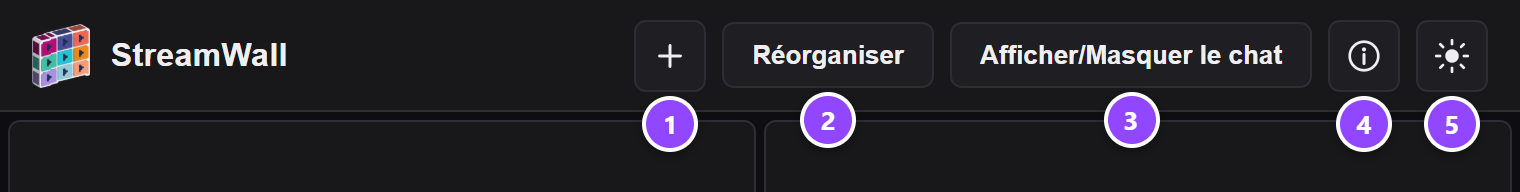
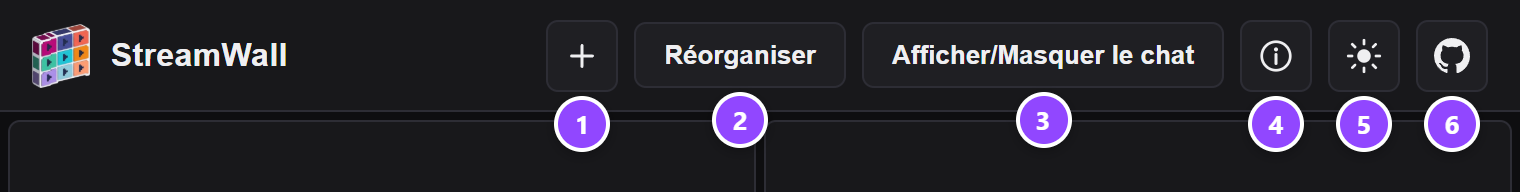
add github link

diff --git a/index.html b/index.html
@@ -104,8 +104,8 @@
       #btn-empty-add) quand aucun stream n'est configuré. Il n'y a plus de
       tuile "+" dans la zone des lecteurs, ni de bouton "Changer les streams"
       dédié. Le menu contient donc, dans l'ordre : "+", "Réorganiser" (et, dans
-      ce mode, "Réinitialiser la vue"), le chat, le bouton d'aide « i » et la
-      bascule thème sombre/clair tout à droite.
+      ce mode, "Réinitialiser la vue"), le chat, le bouton d'aide « i », la
+      bascule thème sombre/clair et, tout à droite, le lien GitHub.
       Pas de bouton "Connexion Twitch" ici : un flux OAuth avait été
       tenté (identité affichée dans le menu de StreamWall), mais retiré
       car il ne connecte de toute façon PAS le panneau de chat/vidéo
@@ -215,6 +215,34 @@
           />
         </svg>
       </button>
+      <!--
+        Lien vers le dépôt GitHub du projet (code source), tout à droite de la
+        barre. C'est un vrai LIEN (<a>) et non un bouton : il navigue, sans
+        aucun JavaScript. Habillé comme les autres boutons d'icône du menu
+        (classes menu-btn menu-btn--icon, voir style.css).
+        - `target="_blank"` l'ouvre dans un nouvel onglet, pour ne pas quitter
+          le mur de streams (les lecteurs seraient rechargés au retour) ;
+          `rel="noopener noreferrer"` empêche la page ouverte d'accéder à
+          celle-ci (`window.opener`) et de recevoir son adresse : c'est le
+          réflexe pour tout lien sortant en `_blank`.
+        - `aria-label` donne son nom au lien (l'icône est décorative) et
+          prévient qu'il s'ouvre dans un nouvel onglet ; `title` est
+          l'infobulle à la souris.
+        - L'icône est la "mark" GitHub (Octicons, licence MIT), en
+          `currentColor` : elle suit la couleur du thème sombre/clair.
+        Pour pointer vers un autre dépôt (un fork, par exemple), changer ce
+        `href` — ou supprimer tout le lien : voir documentation.md.
+      -->
+      <a id="github-link" class="menu-btn menu-btn--icon"
+        href="https://github.com/Kur0n33k0/kur0n33k0.github.io"
+        target="_blank" rel="noopener noreferrer"
+        aria-label="Code source de StreamWall sur GitHub (s'ouvre dans un nouvel onglet)"
+        title="Code source sur GitHub">
+        <svg class="github-icon" viewBox="0 0 16 16" aria-hidden="true">
+          <path fill="currentColor"
+            d="M8 0C3.58 0 0 3.58 0 8c0 3.54 2.29 6.53 5.47 7.59.4.07.55-.17.55-.38 0-.19-.01-.82-.01-1.49-2.01.37-2.53-.49-2.69-.94-.09-.23-.48-.94-.82-1.13-.28-.15-.68-.52-.01-.53.63-.01 1.08.58 1.23.82.72 1.21 1.87.87 2.33.66.07-.52.28-.87.51-1.07-1.78-.2-3.64-.89-3.64-3.95 0-.87.31-1.59.82-2.15-.08-.2-.36-1.02.08-2.12 0 0 .67-.21 2.2.82.64-.18 1.32-.27 2-.27.68 0 1.36.09 2 .27 1.53-1.04 2.2-.82 2.2-.82.44 1.1.16 1.92.08 2.12.51.56.82 1.27.82 2.15 0 3.07-1.87 3.75-3.65 3.95.29.25.54.73.54 1.48 0 1.07-.01 1.93-.01 2.2 0 .21.15.46.55.38A8.013 8.013 0 0016 8c0-4.42-3.58-8-8-8z" />
+        </svg>
+      </a>
     </nav>
   </header>
 
@@ -388,8 +416,9 @@
   <!-- ======================= FENÊTRE D'AIDE ======================= -->
   <!--
     Fenêtre d'aide ouverte par le bouton #btn-help de l'en-tête : elle décrit
-    chaque option du site, avec des captures d'écran (dossier assets/help/,
-    régénérables avec tools/generate-help-screenshots.js, voir documentation.md).
+    chaque option du site, avec des captures d'écran (images fixes du dossier
+    assets/help/ ; voir documentation.md, section 16, pour la façon dont elles
+    ont été réalisées et les refaire).
     Le contenu est ENTIÈREMENT statique (du HTML écrit ici) : aucune donnée
     n'est chargée ni calculée à l'ouverture. Elle réutilise l'habillage de la
     modale "Changer les streams" (.modal-overlay / .modal), en plus large :
@@ -472,7 +501,7 @@
             <h3 id="help-menu-title">Le menu du haut</h3>
             <figure class="help-figure">
               <img src="assets/help/help-header.png" width="1520" height="192" loading="lazy" decoding="async"
-                alt="Capture de l'en-tête : le logo StreamWall à gauche, puis les boutons Plus, Réorganiser, Afficher/Masquer le chat, Aide et la bascule de thème, numérotés de 1 à 5." />
+                alt="Capture de l'en-tête : le logo StreamWall à gauche, puis les boutons Plus, Réorganiser, Afficher/Masquer le chat, Aide, la bascule de thème et le logo GitHub, numérotés de 1 à 6." />
             </figure>
             <ol class="help-legend">
               <li><strong>Ajouter (+)</strong> : ouvre la fenêtre « Changer les streams » pour ajouter un stream ou
@@ -487,6 +516,8 @@
               <li><strong>Aide</strong> (le bouton « i ») : ouvre cette fenêtre.</li>
               <li><strong>Soleil / lune</strong> : passe du thème sombre au thème clair, et inversement
                 (voir <button type="button" class="help-link" data-help-target="help-theme">Thème clair / sombre</button>).</li>
+              <li><strong>Logo GitHub</strong> (tout à droite) : ouvre le code source du projet sur GitHub, dans un nouvel
+                onglet — votre mur de streams n'est pas quitté.</li>
             </ol>
             <p class="help-note">
               Sur un petit écran, le menu défile horizontalement si tous les boutons ne tiennent pas.

diff --git a/style.css b/style.css
@@ -199,8 +199,8 @@ html[data-theme="light"] .brand-logo--light {
   border-color: var(--twitch-purple);
 }
 
-/* Bouton icône seule (ajout « + », bascule de thème, aide) : carré, icône
-   centrée */
+/* Bouton icône seule (ajout « + », bascule de thème, aide, lien GitHub) :
+   carré, icône centrée */
 .menu-btn--icon {
   padding: 8px;
   width: 36px;
@@ -219,6 +219,21 @@ html[data-theme="light"] .brand-logo--light {
 /* Icône « + » du bouton d'ajout de stream (#btn-add) : même taille et même
    couleur que celles de la bascule de thème et du bouton d'aide. */
 .add-icon {
+  width: 18px;
+  height: 18px;
+  color: var(--text-primary);
+}
+
+/* Lien GitHub (#github-link, tout à droite du menu) : c'est un <a> habillé
+   comme les boutons du menu (.menu-btn). Un lien est souligné par défaut et
+   prend la couleur des liens : on retire le soulignement (le texte est absent
+   de toute façon, seule l'icône est affichée) ; la couleur, elle, vient déjà
+   de .menu-btn. Son icône suit la couleur du thème comme les autres. */
+a.menu-btn {
+  text-decoration: none;
+}
+
+.github-icon {
   width: 18px;
   height: 18px;
   color: var(--text-primary);
@@ -1171,8 +1186,8 @@ html[data-theme="light"] .help-link {
 
 /*
  * Légende numérotée d'une capture : le numéro de chaque ligne est une pastille
- * violette, IDENTIQUE à celles dessinées sur l'image (tools/generate-help-
- * screenshots.js), pour qu'on associe d'un coup d'œil « 3 » sur la capture à
+ * violette, IDENTIQUE à celles dessinées sur l'image (voir documentation.md,
+ * section 16), pour qu'on associe d'un coup d'œil « 3 » sur la capture à
  * « 3 » dans la liste. Les numéros viennent d'un compteur CSS : pas de nombre à
  * saisir à la main dans le HTML, l'ordre des <li> fait foi.
  */
@@ -1352,8 +1367,9 @@ html[data-theme="light"] .help-link {
   }
 
   /*
-   * En-tête sur petit écran : le menu (jusqu'à 4 boutons en mode
-   * Réorganiser) plus le logo ne tiennent pas toujours sur une ligne. Plutôt
+   * En-tête sur petit écran : le menu (jusqu'à 7 éléments en mode
+   * Réorganiser : +, Réorganiser, Réinitialiser la vue, chat, aide, thème et
+   * lien GitHub) plus le logo ne tiennent pas toujours sur une ligne. Plutôt
    * que de faire déborder la page, le logo garde sa taille (`flex-shrink:
    * 0`) et c'est le MENU qui rétrécit et défile horizontalement au doigt
    * (`min-width: 0` l'autorise à devenir plus étroit que son contenu ;
@@ -1407,11 +1423,11 @@ html[data-theme="light"] .help-link {
  * Très petit écran (téléphone en portrait) : le nom "StreamWall" est masqué
  * (il ne reste que l'icône du logo, comme avant l'ajout du logo, où le nom
  * était déjà masqué ici pour gagner de la place), et l'en-tête et les
- * boutons sont un peu plus compacts, pour que l'icône et les quatre boutons
- * du menu (Réorganiser, chat, aide, thème) tiennent tous sans avoir à faire
- * défiler le menu — à partir de 360px de large, la largeur de téléphone la
- * plus courante. En dessous de 520px, le nom et le menu ne tiendraient de
- * toute façon pas ensemble.
+ * boutons sont un peu plus compacts, pour que l'icône et les six éléments
+ * du menu (+, Réorganiser, chat, aide, thème et lien GitHub) tiennent tous
+ * sans avoir à faire défiler le menu — à partir de 360px de large, la largeur
+ * de téléphone la plus courante. En dessous de 520px, le nom et le menu ne
+ * tiendraient de toute façon pas ensemble.
  */
 @media (max-width: 520px) {
   .brand-name {
@@ -1422,8 +1438,11 @@ html[data-theme="light"] .help-link {
     padding: 0 8px;
   }
 
+  /* 4px entre deux éléments du menu (8px sur grand écran) : c'est ce qui
+     permet à l'ajout du lien GitHub (36px) de tenir dans les 360px d'un
+     téléphone sans faire défiler le menu. */
   .app-menu {
-    gap: 6px;
+    gap: 4px;
   }
 
   .menu-btn:not(.menu-btn--icon) {

diff --git a/documentation.md b/documentation.md
@@ -136,11 +136,12 @@ données ni processus serveur.
   chaînes à elle, indépendamment de ce qui est affiché à l'instant t —
   pas de bouton "Copier le lien" global dans le menu.
 - Menu **« + » / "Réorganiser" / "Afficher-Masquer le chat" / aide « i » /
-  thème**, positionné en haut à droite de la page (pas de bouton "Changer
-  les streams" séparé dans le menu : voir le point sur le bouton « + »
-  ci-dessus ;
-  pas de bouton "Copier le lien" non plus : voir le point sur les
-  dispositions favorites). Sur téléphone, « Afficher/Masquer le chat » se
+  thème / logo GitHub**, positionné en haut à droite de la page (pas de
+  bouton "Changer les streams" séparé dans le menu : voir le point sur le
+  bouton « + » ci-dessus ; pas de bouton "Copier le lien" non plus : voir le
+  point sur les dispositions favorites). Le **logo GitHub**, tout à droite,
+  ouvre le dépôt du projet dans un nouvel onglet (voir "Lien GitHub du menu"
+  dans la Personnalisation). Sur téléphone, « Afficher/Masquer le chat » se
   réduit à « Chat » pour que tout tienne.
 - **Fenêtre d'aide** (bouton **« i »** du menu) : elle explique **toutes les
   options du site, avec des captures d'écran** numérotées et un sommaire
@@ -170,16 +171,14 @@ streamwall/
 │   ├── logo_mode_clair0.png   Icône du logo pour le thème clair (contour foncé)
 │   ├── favicon.ico            Favicon (fichier ICO : 16, 32 et 48 px)
 │   └── help/                  Captures d'écran de la fenêtre d'aide (9 PNG, voir section 16)
-├── tools/
-│   └── generate-help-screenshots.js   Outil de développement FACULTATIF : régénère assets/help/
 ├── documentation.md    Cette documentation technique (fonctionnement, déploiement, personnalisation)
 └── README.md           Présentation du projet (page d'accueil GitHub)
 ```
 
 Il n'y a **aucune étape de build** (pas de Webpack/Vite/npm install) : les
 fichiers sont servis tels quels par n'importe quel serveur HTTP statique.
-Le dossier `tools/` n'est pas servi au visiteur et n'est jamais chargé par
-la page : il ne sert qu'à régénérer les captures de l'aide (section 16).
+Le dépôt ne contient aucun outil de développement : rien à installer, ni pour servir
+le site ni pour le modifier.
 
 ## Fonctionnement technique
 
@@ -1351,7 +1350,7 @@ arrive, et pour que les sauts du sommaire tombent au bon endroit.
 
 | Fichier | Ce qu'il montre | Pastilles |
 | --- | --- | --- |
-| `help-header.png` | le menu du haut : « + », Réorganiser, chat, aide, thème (2× pour rester net) | 5 |
+| `help-header.png` | le menu du haut : « + », Réorganiser, chat, aide, thème, logo GitHub (2× pour rester net) | 6 |
 | `help-add-streams.png` | le haut de la fenêtre "Changer les streams" : saisie, liste (2×) | 3 |
 | `help-wall.png` | le mur de streams, sans rien d'autre | — |
 | `help-reorder.png` | le mode Réorganiser : barre d'outils et poignées des tuiles | 4 |
@@ -1368,41 +1367,36 @@ compteur CSS (l'ordre des `<li>` fait foi, aucun numéro n'est écrit à la main
 Si vous ajoutez ou retirez une pastille sur une capture, la légende doit
 suivre.
 
-**Les captures sont générées, pas dessinées à la main** :
-`tools/generate-help-screenshots.js` (un outil de développement,
-**facultatif** — le site reste 100 % statique, sans étape de build)
-ouvre le VRAI site dans un Chrome sans fenêtre, le met dans chaque état à
-illustrer en remplissant le `localStorage` (mêmes clés que l'application :
-chaînes, favoris, mode Réorganiser, tailles ajustées, thème, chat,
-dispositions), puis prend la capture. Deux choses sont simulées, faute de
+**Comment les captures ont été réalisées.** Ce sont des images FIXES : elles
+ne se mettent pas à jour toutes seules. Chacune a été prise sur le VRAI site,
+ouvert dans un Chrome sans fenêtre et mis dans l'état à illustrer en
+remplissant le `localStorage` (mêmes clés que l'application : chaînes,
+favoris, mode Réorganiser, tailles ajustées, thème, chat, dispositions), puis
+annotée de ses pastilles numérotées. Deux choses sont simulées, faute de
 pouvoir (ni vouloir) charger Twitch : les **lecteurs vidéo** sont remplacés par
 des images factices (dégradé, "EN DIRECT", nom de chaîne fictif :
 `exemple_un`, `exemple_deux`…) — on ne montre donc aucun vrai streamer — et le
-**chat** par quelques messages fictifs. Tout le réseau externe est bloqué
-pendant la prise de vue : les captures ne dépendent pas d'Internet et sont
-identiques d'une exécution à l'autre.
+**chat** par quelques messages fictifs. Le réseau externe était bloqué pendant
+la prise de vue.
 
-Pour les régénérer (après un changement d'interface) :
+Le script qui automatisait tout cela (`tools/generate-help-screenshots.js`,
+fondé sur `puppeteer-core`) **n'est plus dans le dépôt** : le site est resté
+sans aucun outil de développement. Il reste récupérable dans l'historique git
+(`git show 4350241^:tools/generate-help-screenshots.js`) pour refaire les
+captures après un changement d'interface — à adapter, il ne connaît pas
+forcément les derniers éléments de l'interface ; sinon, on les prend à la main,
+dans les mêmes états et avec les mêmes noms de chaînes fictifs. Dans les deux
+cas, si la taille d'une capture change, mettez à jour les attributs
+`width`/`height` de son `<img>` dans `index.html`.
 
-```bash
-python3 -m http.server 8080                     # 1. servir le site
-npm install puppeteer-core                      # 2. dans un dossier TEMPORAIRE (pas dans le projet)
-NODE_PATH=/chemin/vers/node_modules \
-  node tools/generate-help-screenshots.js       # 3. régénérer assets/help/*.png
-```
-
-`CHROME_PATH` désigne un Chrome/Edge précis (sinon les emplacements usuels sont
-essayés) et `STREAMWALL_URL` une autre adresse que
-`http://localhost:8080/index.html`. Si la taille d'une capture change, mettez à
-jour les attributs `width`/`height` de son `<img>` dans `index.html`.
-
-**Le menu sur téléphone.** Avec le bouton « + » et le bouton « i », le menu
-compte cinq boutons (+, Réorganiser, chat, aide, thème) ; pour qu'ils tiennent
-tous sur un écran de
-360 px sans faire défiler le menu, le libellé « Afficher/Masquer le chat » se
-réduit à **« Chat »** jusqu'à 600 px de large (`.menu-btn-extra`, une partie du
-libellé masquée en CSS ; `aria-label` garde le nom complet pour les lecteurs
-d'écran). Au-delà de 600 px, rien ne change.
+**Le menu sur téléphone.** Avec le bouton « + », le bouton « i » et le lien
+GitHub, le menu compte six éléments (cinq boutons — +, Réorganiser, chat, aide,
+thème — et le lien) ; pour qu'ils tiennent tous sur un écran de 360 px sans
+faire défiler le menu, deux choses changent : le libellé « Afficher/Masquer le
+chat » se réduit à **« Chat »** jusqu'à 600 px de large (`.menu-btn-extra`, une
+partie du libellé masquée en CSS ; `aria-label` garde le nom complet pour les
+lecteurs d'écran), et l'écart entre deux éléments passe de 8 à 4 px sous
+520 px. Au-delà de 600 px, rien ne change.
 
 ## Lancer le projet en local
 
@@ -1634,8 +1628,8 @@ ensemble.
 
 **Le menu de l'en-tête sur téléphone.** Pour que le logo ne fasse jamais
 déborder la page, l'en-tête et les boutons sont un peu plus compacts sous
-520 px (à partir de 360 px de large, l'icône et les cinq boutons
-+ / Réorganiser / chat / aide / thème tiennent sans défiler, le libellé du bouton
+520 px (à partir de 360 px de large, l'icône et les six éléments du menu
++ / Réorganiser / chat / aide / thème / GitHub tiennent sans défiler, le libellé du bouton
 de chat étant alors réduit à « Chat » : voir section 16) ; et quand le menu a
 plus de boutons que la largeur ne le permet — typiquement le mode
 Réorganiser, qui ajoute "Réinitialiser la vue" — c'est le menu qui **défile
@@ -1666,6 +1660,37 @@ Si votre nouveau logo contient déjà le nom "StreamWall" dans l'image,
 supprimez le `<span class="brand-name">` pour ne pas l'écrire deux fois (et
 donnez alors un `alt="StreamWall"` aux images).
 
+### Lien GitHub du menu
+
+Tout à droite du menu, le **logo GitHub** (`#github-link`, dans `index.html`)
+ouvre le dépôt du projet, `https://github.com/Kur0n33k0/kur0n33k0.github.io`,
+dans un nouvel onglet. C'est un simple lien HTML (`<a>`), sans aucun
+JavaScript :
+
+- `target="_blank"` l'ouvre dans un **nouvel onglet**, pour ne pas quitter le
+  mur de streams (les lecteurs seraient rechargés au retour) ;
+  `rel="noopener noreferrer"` empêche la page ouverte d'accéder à celle-ci
+  (`window.opener`) et de recevoir son adresse : le réflexe pour tout lien
+  sortant en `_blank`.
+- Il est habillé comme les autres boutons d'icône du menu
+  (`.menu-btn .menu-btn--icon`). L'icône est la "mark" GitHub des Octicons
+  (licence MIT), en SVG inline dessiné en `currentColor` : elle suit la couleur
+  du thème sombre/clair, sans image ni requête de plus. `a.menu-btn` retire le
+  soulignement que les liens ont par défaut.
+- Accessibilité : l'icône est décorative (`aria-hidden`), c'est `aria-label`
+  (« Code source de StreamWall sur GitHub (s'ouvre dans un nouvel onglet) »)
+  qui nomme le lien, `title` fournit l'infobulle, et il est atteignable au
+  clavier (Tab, juste après la bascule de thème).
+- Il fait partie du menu : sur téléphone, l'écart entre les éléments du menu
+  est réduit (4 px sous 520 px) pour que tout tienne encore sans faire défiler
+  le menu (voir section 16).
+
+**Pointer vers un autre dépôt** (un fork, par exemple) : changez l'attribut
+`href` de `#github-link`. **Le retirer** : supprimez le `<a id="github-link">`
+d'`index.html` ; rien d'autre dans le code n'y fait référence. L'aide le cite
+dans la légende de la capture de l'en-tête (`help-header.png`) : retirez aussi
+cet élément de la légende (et la pastille de la capture).
+
 ### Modifier la fenêtre d'aide
 
 Le texte de l'aide est du HTML dans `index.html`, bloc `#help-overlay` :
@@ -1687,10 +1712,9 @@ modifiez-le directement (aucune autre étape). Pour **ajouter une rubrique** :
 Aucun code JavaScript n'est à toucher : `app.js` repère les sections et les
 rubriques d'après leurs classes (`.help-section`, `.help-toc-link`).
 
-**Ajouter ou refaire une capture** : décrivez son état dans
-`tools/generate-help-screenshots.js` (un bloc numéroté par capture : état
-du `localStorage`, pastilles à poser avec `addCallouts()`, nom du fichier),
-relancez l'outil (commandes en section 16), puis ajoutez dans la section un
+**Ajouter ou refaire une capture** : prenez-la dans l'état voulu (faux
+lecteurs, pastilles numérotées : voir section 16), placez le fichier PNG dans
+`assets/help/`, puis ajoutez dans la section un
 `<figure class="help-figure"><img …></figure>` suivi de sa légende
 `<ol class="help-legend">` (une ligne par pastille, dans l'ordre) ; donnez à
 l'`<img>` un `alt` descriptif, `loading="lazy"` et les `width`/`height`
@@ -1819,15 +1843,15 @@ réels du fichier.
   dans `<head>` si vous voulez que le site s'installe avec une icône
   soignée sur iOS/Android.
 - Sur très petit écran (moins de 520 px de large), le nom "StreamWall" est
-  masqué et il ne reste que l'icône du logo ; et en mode Réorganiser (6
-  boutons dans le menu, avec "Réinitialiser la vue") le menu défile
+  masqué et il ne reste que l'icône du logo ; et en mode Réorganiser (7
+  éléments dans le menu, avec "Réinitialiser la vue") le menu défile
   horizontalement au lieu de tout afficher d'un coup (voir "Logo et
   favicon"). Jusqu'à 600 px, le bouton de chat s'écrit « Chat » au lieu de
   « Afficher/Masquer le chat » (section 16).
 - **La fenêtre d'aide** (section 16) est rédigée **en français uniquement**,
   comme le reste de l'interface. Ses captures sont des images fixes : elles
-  ne suivent pas l'interface d'elles-mêmes et doivent être **régénérées**
-  quand celle-ci change (`tools/generate-help-screenshots.js`). Elles
+  ne suivent pas l'interface d'elles-mêmes et doivent être **refaites**
+  quand celle-ci change (voir section 16). Elles
   montrent de **faux** lecteurs (aucun vrai stream) et l'en-tête en thème
   sombre, même quand le site est affiché en thème clair. Elle n'a pas de
   moteur de recherche interne (le sommaire suffit pour douze rubriques).

diff --git a/README.md b/README.md
@@ -111,6 +111,7 @@ Python.
 **Confort**
 - Panneau de **chat Twitch** (masqué par défaut) avec choix de la chaîne.
 - **Thème sombre ou clair**, avec un logo adapté à chacun.
+- Lien vers le **code source** (logo GitHub, tout à droite du menu).
 - **Fenêtre d'aide intégrée** (bouton ⓘ) avec captures d'écran : toutes les options du site y sont expliquées.
 - Utilisable **au clavier**, avec gestion du focus dans les fenêtres.
 
@@ -164,9 +165,6 @@ disposition), Pointer Events (redimensionnement souris, doigt et stylet), Drag a
 100 % de remplissage, quelles que soient les tailles ajustées à la main.
 Voir [le détail dans la documentation](documentation.md#fonctionnement-technique).
 
-**Outil de développement (facultatif)** : [`puppeteer-core`](https://pptr.dev/) sert uniquement à régénérer les
-captures de l'aide, et n'est jamais chargé par le site.
-
 ## 🌍 Déploiement
 
 Le site n'a besoin d'aucune configuration : il se déploie tel quel sur n'importe quel hébergement de fichiers
@@ -194,7 +192,6 @@ règles.
 ├── style.css               Feuille de style (thèmes, mur de streams, fenêtres)
 ├── app.js                  Toute la logique de l'application, commentée en français
 ├── assets/                 Logo (thème sombre / clair), favicon et captures de l'aide
-├── tools/                  Outil facultatif de génération des captures d'écran
 ├── documentation.md        Documentation technique détaillée
 └── README.md               Cette présentation
 ```
